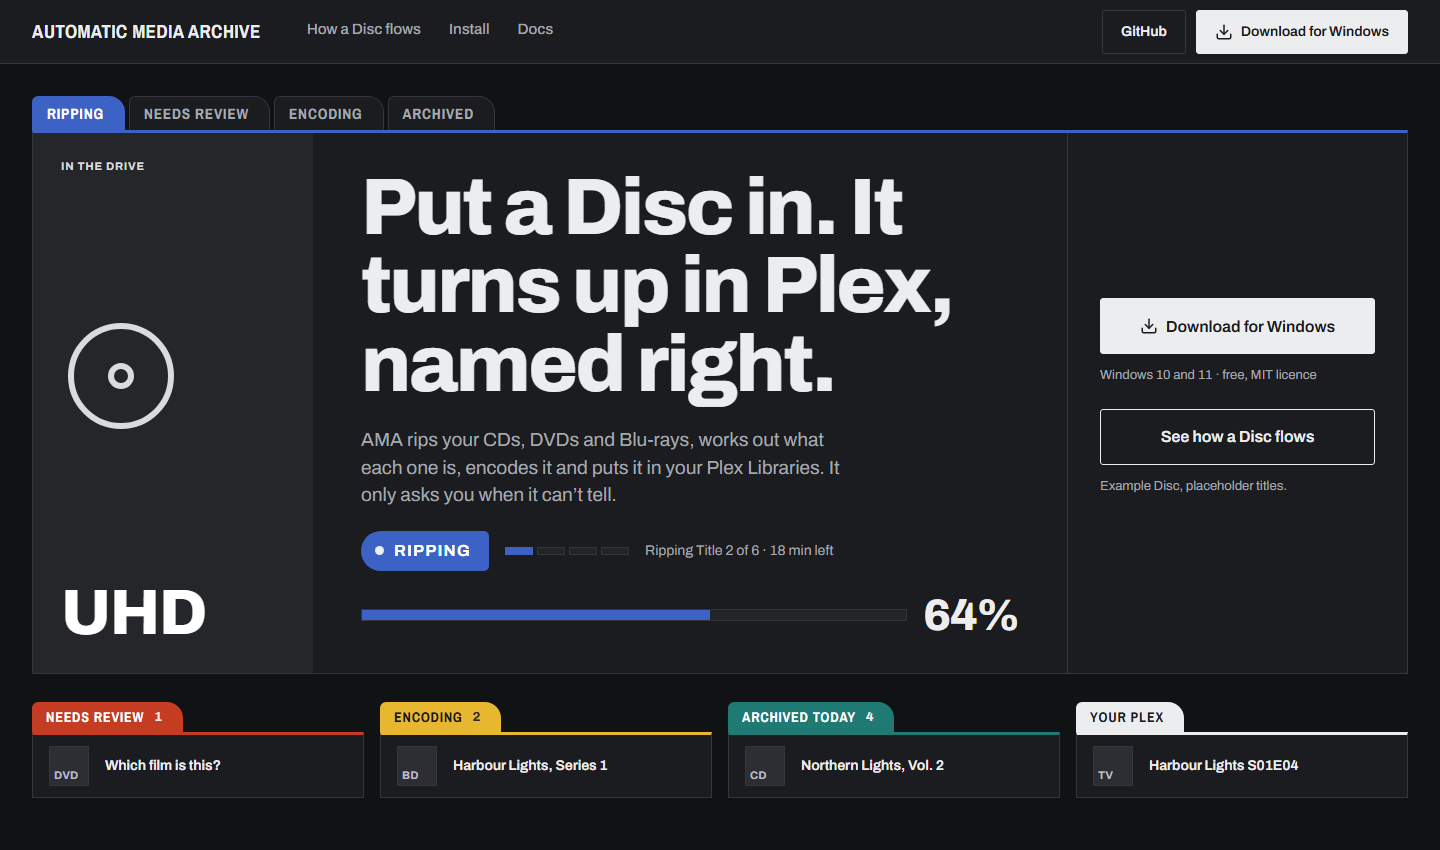
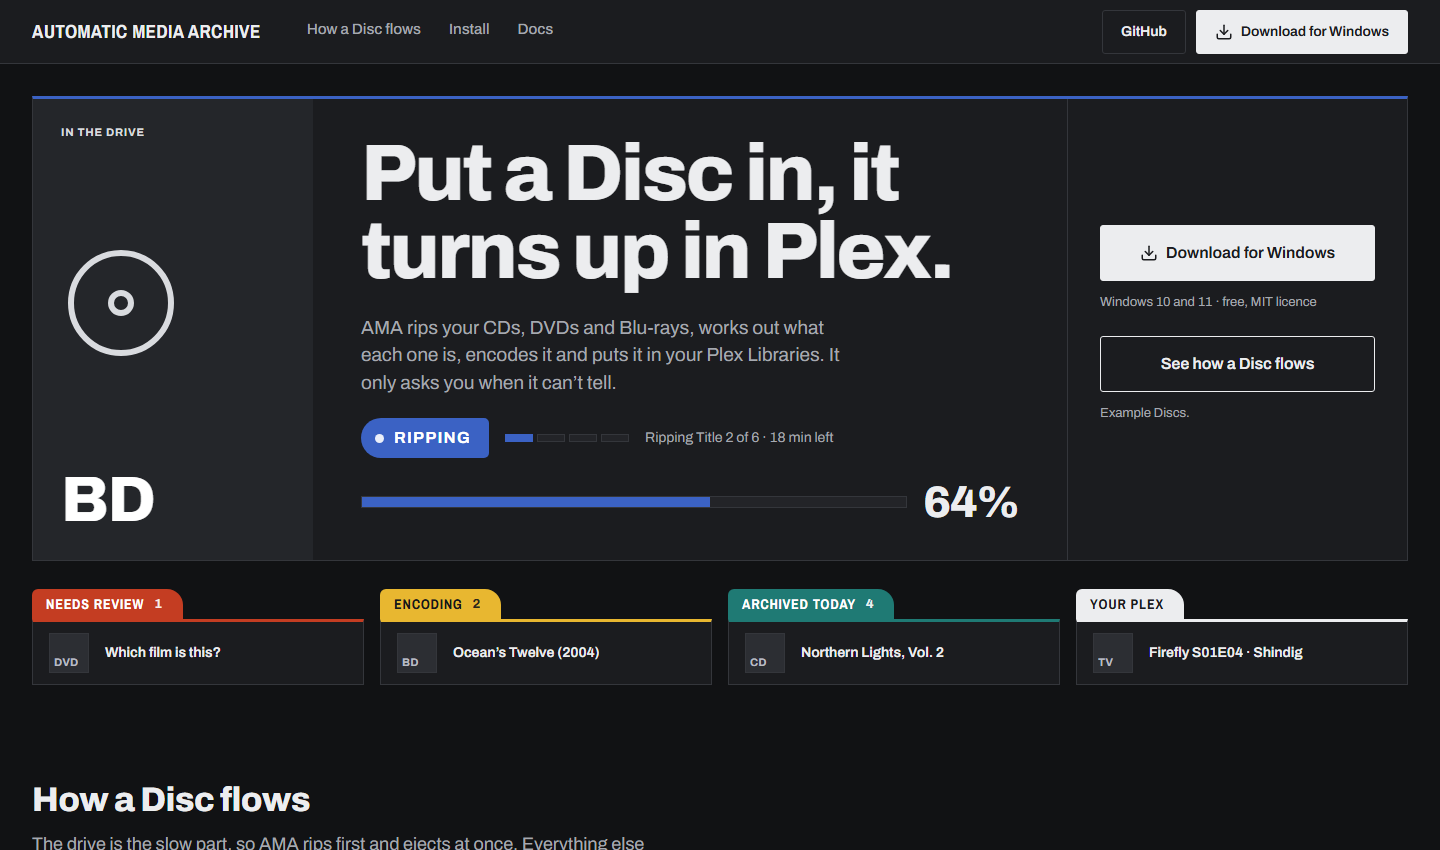
Rework the landing mockup after review: static hero, real example titles
The maintainer's headline is used as written. The stage-cycling animation
and the row of stage tabs are gone, because the tabs read as navigation.
Examples now use Ocean's Eleven/Twelve and Firefly.

diff --git a/docs/mockups/site/index.html b/docs/mockups/site/index.html
@@ -17,28 +17,27 @@
 </header>
 
 <main id="main" class="wrap">
-  <section class="hero" data-hero aria-labelledby="hero-h">
-    <div class="htabs" aria-hidden="true"><span class="htab rip on">Ripping</span><span class="htab rev">Needs review</span><span class="htab enc">Encoding</span><span class="htab fil">Archived</span></div>
+  <section class="hero" aria-labelledby="hero-h">
     <div class="prow">
-      <div class="cell" aria-hidden="true"><span class="cap">In the drive</span><svg class="i"><use href="../assets/icons.svg#disc"/></svg><span class="fmt">UHD</span></div>
+      <div class="cell" aria-hidden="true"><span class="cap">In the drive</span><svg class="i"><use href="../assets/icons.svg#disc"/></svg><span class="fmt">BD</span></div>
       <div class="body">
-        <h1 id="hero-h">Put a Disc in. It turns up in Plex, named right.</h1>
+        <h1 id="hero-h">Put a Disc in, it turns up in Plex.</h1>
         <p class="meta">AMA rips your CDs, DVDs and Blu-rays, works out what each one is, encodes it and puts it in your Plex Libraries. It only asks you when it can’t tell.</p>
         <div class="st" aria-hidden="true"><span class="stk xl rip">Ripping</span><span class="strip"><b class="now"></b><b></b><b></b><b></b></span><span class="step">Ripping Title 2 of 6 · 18 min left</span></div>
-        <div class="hprog" aria-hidden="true"><div class="bar"><i style="width:64%"></i></div><span class="pct">64%</span><span class="where" hidden>In Plex <span>› Films ›</span> The Long Field (2019)</span></div>
+        <div class="hprog" aria-hidden="true"><div class="bar"><i style="width:64%"></i></div><span class="pct">64%</span><span class="where" hidden>In Plex <span>› Films ›</span> Ocean’s Eleven (2001)</span></div>
       </div>
       <div class="act">
         <a class="btn pri big" href="#install"><svg class="i" aria-hidden="true"><use href="../assets/icons.svg#download"/></svg>Download for Windows</a>
         <small>Windows 10 and 11 · free, MIT licence</small>
         <a class="btn big" href="#flow">See how a Disc flows</a>
-        <small>Example Disc, placeholder titles.</small>
+        <small>Example Discs.</small>
       </div>
     </div>
     <div class="peek" aria-hidden="true">
       <div class="bin rev"><span class="tab">Needs review <span class="c">1</span></span><div class="box"><div class="row compact"><span class="dtype">DVD</span><span class="tt">Which film is this?</span><span></span></div></div></div>
-      <div class="bin enc"><span class="tab">Encoding <span class="c">2</span></span><div class="box"><div class="row compact"><span class="dtype">BD</span><span class="tt">Harbour Lights, Series 1</span><span></span></div></div></div>
+      <div class="bin enc"><span class="tab">Encoding <span class="c">2</span></span><div class="box"><div class="row compact"><span class="dtype">BD</span><span class="tt">Ocean’s Twelve (2004)</span><span></span></div></div></div>
       <div class="bin fil"><span class="tab">Archived today <span class="c">4</span></span><div class="box"><div class="row compact"><span class="dtype">CD</span><span class="tt">Northern Lights, Vol. 2</span><span></span></div></div></div>
-      <div class="bin ink"><span class="tab">Your Plex</span><div class="box"><div class="row compact"><span class="dtype">TV</span><span class="tt">Harbour Lights S01E04</span><span></span></div></div></div>
+      <div class="bin ink"><span class="tab">Your Plex</span><div class="box"><div class="row compact"><span class="dtype">TV</span><span class="tt">Firefly S01E04 · Shindig</span><span></span></div></div></div>
     </div>
   </section>
 
@@ -68,10 +67,10 @@
         <span class="tab">Needs review <span class="c">1</span></span>
         <div class="box"><div class="pad">
           <p class="q">Which film is this?</p>
-          <p class="qs">DVD · Main Feature 1 h 52 min · matched on TMDB</p>
+          <p class="qs">DVD · Main Feature 1 h 56 min · matched on TMDB</p>
           <div class="choices" role="radiogroup" aria-label="Example matches">
-            <div class="choice on" role="radio" aria-checked="true"><span class="dot"></span><span class="still"></span><div><b>The Long Field (2019)</b><small>1 h 52 min · same length as the Main Feature</small></div></div>
-            <div class="choice" role="radio" aria-checked="false"><span class="dot"></span><span class="still lite"></span><div><b>The Long Field (1987)</b><small>1 h 38 min</small></div></div>
+            <div class="choice on" role="radio" aria-checked="true"><span class="dot"></span><span class="still"></span><div><b>Ocean’s Eleven (2001)</b><small>1 h 56 min · same length as the Main Feature</small></div></div>
+            <div class="choice" role="radio" aria-checked="false"><span class="dot"></span><span class="still lite"></span><div><b>Ocean’s Eleven (1960)</b><small>2 h 7 min</small></div></div>
           </div>
           <div class="actions"><span class="btn pri">Archive it</span><span class="btn">Neither, search TMDB</span></div>
           <p class="demo-note">Example. The real page also shows frames from each Title.</p>
@@ -89,7 +88,7 @@
         <figure class="shot"><picture><source srcset="../screenshots/history-desktop-dark.png" media="(prefers-color-scheme: dark)"><img src="../screenshots/history-desktop-light.png" alt="History: every Disc archived, newest first, with what each became." width="1440" height="850" loading="lazy"></picture><figcaption><b>History</b> <span>· what each Disc became</span></figcaption></figure>
       </div>
     </div>
-    <p class="demo-note">Screens from the design mockups, with placeholder Discs.</p>
+    <p class="demo-note">Screens from the design mockups.</p>
   </section>
 
   <section class="block" aria-labelledby="fmt-h">

diff --git a/docs/mockups/site/site.css b/docs/mockups/site/site.css
@@ -21,11 +21,7 @@ section.block{padding:96px 0 0}
 
 /* hero: one Disc row at poster scale */
 .hero{padding-top:32px}
-.htabs{display:flex;gap:4px}
-.htab{display:inline-flex;align-items:center;height:34px;padding:0 20px 0 14px;border-radius:6px 16px 0 0;font:700 15px/1 "Archivo Narrow",sans-serif;letter-spacing:.06em;text-transform:uppercase;background:var(--sheet);color:var(--ink2);border:1px solid var(--rule);border-bottom:0;transition:background-color .35s cubic-bezier(.2,.8,.2,1),color .35s}
-.htab.on{color:#fff;border-color:transparent}
-.htab.on.rip{background:var(--rip)}.htab.on.rev{background:var(--rev)}.htab.on.enc{background:var(--enc);color:#17181A}.htab.on.fil{background:var(--fil)}
-.prow{display:grid;grid-template-columns:280px minmax(0,1fr) 340px;min-height:440px;background:var(--sheet);border:1px solid var(--rule);border-top:3px solid var(--edge,var(--rip));transition:border-color .35s}
+.prow{display:grid;grid-template-columns:280px minmax(0,1fr) 340px;min-height:440px;background:var(--sheet);border:1px solid var(--rule);border-top:3px solid var(--edge,var(--rip))}
 .prow .cell{background:#24262A;color:#D9DBDF;display:flex;flex-direction:column;justify-content:space-between;padding:28px}
 .prow .cell .i{width:120px;height:120px;stroke-width:1.2}
 .cap{font:700 11px/1 Archivo;letter-spacing:.08em;text-transform:uppercase}
@@ -34,7 +30,7 @@ section.block{padding:96px 0 0}
 .hero h1{font:800 80px/.98 Archivo;letter-spacing:-.03em;text-wrap:balance;max-width:15ch}
 .hero .meta{color:var(--ink2);font-size:19px;max-width:44ch}
 .st{display:flex;align-items:center;gap:16px;flex-wrap:wrap}
-.stk.xl{height:40px;padding:0 18px 0 14px;border-radius:20px 5px 5px 20px;font-size:16px;transition:background-color .35s,color .35s}
+.stk.xl{height:40px;padding:0 18px 0 14px;border-radius:20px 5px 5px 20px;font-size:16px}
 .stk.xl::before{width:9px;height:9px;margin-right:10px}
 .strip{display:flex;gap:4px}
 .strip b{width:28px;height:8px;background:var(--well);border:1px solid var(--rule)}
@@ -43,7 +39,7 @@ section.block{padding:96px 0 0}
 .step{color:var(--ink2);font-size:14px}
 .hprog{display:flex;align-items:center;gap:16px;margin-top:auto;min-height:44px}
 .hprog .bar{flex:1;height:12px;background:var(--well);border:1px solid var(--rule)}
-.hprog .bar i{display:block;height:100%;background:var(--edge,var(--rip));transition:width .6s cubic-bezier(.2,.8,.2,1)}
+.hprog .bar i{display:block;height:100%;background:var(--edge,var(--rip))}
 .hprog .pct{font:800 44px/1 Archivo;letter-spacing:-.02em;min-width:3ch;text-align:right}
 .hprog .where{font-weight:600;font-size:16px}
 .hprog .where span{color:var(--ink2);font-weight:400}
@@ -200,9 +196,6 @@ section.block{padding:96px 0 0}
   .stop .nav a{min-height:48px;padding:0 12px}
   .wrap{padding:0 16px}
   .hero{padding-top:20px}
-  .htabs{overflow:hidden}
-  .htab{padding:0 10px;font-size:12px;letter-spacing:.04em;flex:none}
-  .htab:not(.on){max-width:30px;overflow:hidden;color:transparent}
   .prow{grid-template-columns:minmax(0,1fr);min-height:0}
   .prow .cell{flex-direction:row;align-items:center;gap:12px;padding:12px 16px}
   .prow .cell .i{width:28px;height:28px}
@@ -252,5 +245,4 @@ section.block{padding:96px 0 0}
   .next{grid-template-columns:minmax(0,1fr)}
   .next a.fwd{grid-column:auto}
 }
-@media (prefers-reduced-motion:reduce){*{transition:none!important}}
 .notice p b{display:inline;margin:0}

diff --git a/docs/mockups/site/site.js b/docs/mockups/site/site.js
@@ -1,38 +1,4 @@
-// Mockup-only behaviour for the site pages: the hero Disc advances stage by stage, and screenshots follow a forced theme.
-const PHASES = [
-  { cls: "rip", label: "Ripping", step: "Ripping Title 2 of 6 · 18 min left", pct: 64, done: 0 },
-  { cls: "rev", label: "Review", step: "Two close matches. AMA asks you which film it is.", pct: null, done: 1 },
-  { cls: "enc", label: "Encoding", step: "Encoding the Main Feature to HEVC · 11 min left", pct: 38, done: 2 },
-  { cls: "fil", label: "Archived", step: "Named and moved into your Films Library.", pct: null, done: 3 },
-];
-const EDGE = { rip: "var(--rip)", rev: "var(--rev)", enc: "var(--enc)", fil: "var(--fil)" };
-
-const hero = document.querySelector("[data-hero]");
-if (hero && !matchMedia("(prefers-reduced-motion: reduce)").matches && !new URLSearchParams(location.search).has("still")) {
-  const tabs = hero.querySelectorAll(".htab");
-  const stk = hero.querySelector(".stk.xl");
-  const step = hero.querySelector(".step");
-  const segs = hero.querySelectorAll(".strip b");
-  const bar = hero.querySelector(".hprog .bar");
-  const fill = hero.querySelector(".hprog .bar i");
-  const pct = hero.querySelector(".hprog .pct");
-  const where = hero.querySelector(".hprog .where");
-  let n = 0;
-  const show = (p) => {
-    hero.style.setProperty("--edge", EDGE[p.cls]);
-    tabs.forEach((t, i) => t.classList.toggle("on", i === PHASES.indexOf(p)));
-    stk.className = "stk xl " + p.cls;
-    stk.textContent = p.label;
-    step.textContent = p.step;
-    segs.forEach((s, i) => { s.className = i < p.done ? "done" : i === p.done ? "now" : ""; });
-    const hasBar = p.pct !== null;
-    bar.hidden = pct.hidden = !hasBar;
-    where.hidden = p.cls !== "fil";
-    if (hasBar) { fill.style.width = p.pct + "%"; pct.textContent = p.pct + "%"; }
-  };
-  setInterval(() => { n = (n + 1) % PHASES.length; show(PHASES[n]); }, 2800);
-}
-
+// Mockup-only: screenshots follow a forced theme.
 const forced = document.documentElement.dataset.theme;
 if (forced) document.querySelectorAll("picture").forEach((pic) => {
   const dark = pic.querySelector("source");

diff --git a/.impeccable/surfaces/docs-mockups-site-index-html.md b/.impeccable/surfaces/docs-mockups-site-index-html.md
@@ -21,8 +21,8 @@ OWN-WORLD: Browser Bin unchanged (DESIGN.md): cool grey ground, near-white sheet
 
 STORY: In one viewport the visitor knows AMA turns a Disc in the drive into a correctly named Plex entry, that they only answer the odd question, and where to download it.
 
-FIRST VIEWPORT: Top bar (brand, docs links, GitHub, Download). Stage tabs over one full-width row: 280px dark drive cell (disc icon, UHD), the 80px headline (three lines) and lede, the big sticker with step strip and progress, and a right action column with Download for Windows (primary) and See how a Disc flows. Four small bins peek below.
+FIRST VIEWPORT: Top bar (brand, docs links, GitHub, Download). One full-width Disc row with a cobalt top edge and no tab row (a row of stage tabs read as navigation): 280px dark drive cell (disc icon, BD), the 80px headline "Put a Disc in, it turns up in Plex." and lede, the Ripping sticker with step strip and progress, and a right action column with Download for Windows (primary) and See how a Disc flows. Four small bins peek below.
 
-FORM: The Disc at poster scale, position 6 on my ordered list; seed:4426fc3cc982006e. Signature interaction: the hero sticker, tab and progress advance one stage at a time; reduced motion holds on Ripping.
+FORM: The Disc at poster scale, position 6 on my ordered list; seed:4426fc3cc982006e. Static: the maintainer rejected the stage-cycling animation. Example titles are Ocean's Eleven/Twelve/Thirteen (films) and Firefly (TV).
 
 FINISH: unreviewed and undocumented is unfinished; this build ends with the finish review, the verdict, DESIGN.md, and every shipping raster carrying its provenance
